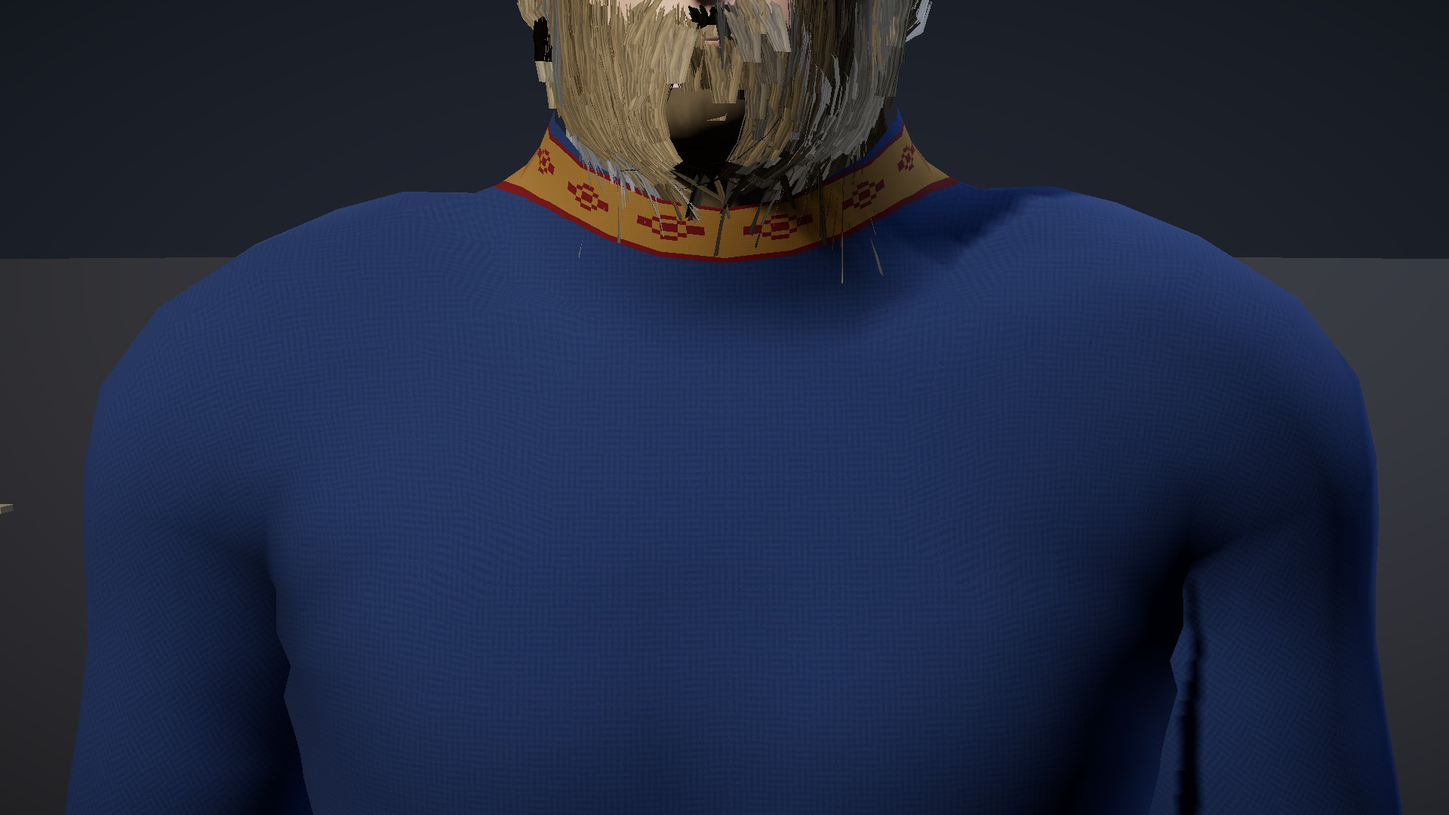
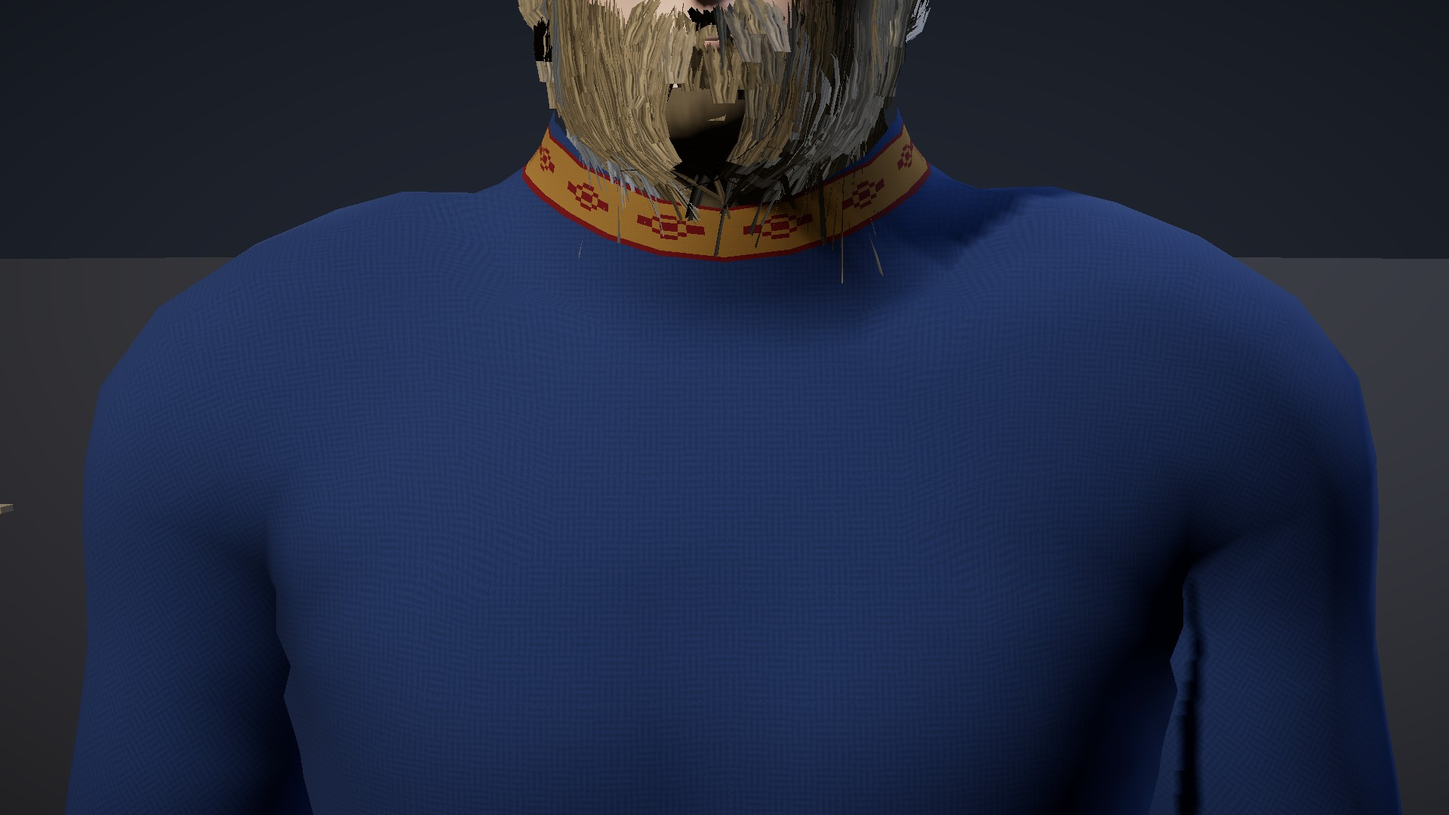
Bodies: Session 1230 — the neck's border stops at the neck's base
A band round the neck (the Aurennais gown's border, the Mark's woven band) reads its foot off a table of
48 heights measured down the tunic's own rest surface, so its lower cord no longer runs into the crease where
the collar meets the shoulder. builder.check 554/554.

Claude-Session: https://claude.ai/code/session_011QPd5jMNqV7usgMmVpkfan

diff --git a/docs/prototypes/levelup/people.js b/docs/prototypes/levelup/people.js
@@ -115,7 +115,7 @@ const LOZ_AT = o => o.at.map(a => `{ float t = ${a.t}, s = ${a.s}; if (${a.on ||
 // the three places on the rest body: the neck from rest .58 to .606, round the neck's axis (x 0, z .025, 5.5 cm out); the cuff across
 // its width (rest |x| .371 to .411, as the woven cuff band), round the wrist's middle where that slab cuts it (y .285, z .116); the hem 4 cm up from the skirt's cut (a short skirt's at -.2, a long
 // one's own edge, -.687 at the sides to -.728 at the front, below), round the body's axis
-const LOZ_NECK = { t: '(vB.y - .58) / .026', s: 'atan(vB.x, vB.z - .025) * .055 / .028', on: 'abs(vB.x) < .1' };
+const LOZ_NECK = { t: '(vB.y - neckY(vB)) / (.606 - neckY(vB))', neck: .026, s: 'atan(vB.x, vB.z - .025) * .055 / .028', on: 'abs(vB.x) < .1' };
 const LOZ_CUFF = { t: `(${SLV_T} - .371) / .04`, s: `${SLV_S} * .045 / .04` };
 // a long gown's cut is the skirt helper's own edge, not a line: 2.8 cm higher at the sides than at the front (Session 1163). Its band
 // is laid up from that edge, read off a table of 48 heights round the body's axis, filled from the edge's points on the rest body
@@ -135,6 +135,33 @@ function lozHemTable() {
 }
 // the same reading in JS, for the checks
 export function lozHemY(x, z) { const T = lozHemTable(), u = (Math.atan2(x, z - .02) / (Math.PI * 2) + .5) * 48, i = Math.floor(u) % 48; return T[i] + (T[(i + 1) % 48] - T[i]) * (u - Math.floor(u)); }
+// a band round the neck (Session 1230; S1220's note: the gown's lower cord ran down into the crease where the collar meets the shoulder,
+// and over the back of the shoulders it lay out on their slope, the rings drawn out wide). Its top stays at rest .606; its foot is read off
+// a table of 48 heights round the neck's axis (x 0, z .025), each where the band's own depth is measured down the tunic's rest surface
+// from the top, not down y: over the front, where the neck stands straight, that is where it was (.578), and where the neck flares into
+// the shoulders the band stops short of the flare, as a collar's border does
+const NECK_BAND = `uniform float neckT[48]; float neckY(vec3 p){ float u = (atan(p.x, p.z - .025) / 6.28319 + .5) * 48.; int i = int(floor(u)) % 48; return mix(neckT[i], neckT[(i + 1) % 48], fract(u)); }`;
+// the table, for a band of the given depth: at each angle a ray out from the neck's axis every millimetre down from .606 meets the
+// tunic's rest triangles, the furthest hit being the surface (none, at the cut's own edge: the next one down); the depth is walked down that profile, and the heights smoothed round
+function neckBandTable(depth) {
+  const k = 'neckT' + depth; if (PACK[k]) return PACK[k]; const ix = PACK.R.tunic, R0 = PACK.rest, tri = [];
+  for (let t = 0; t < ix.length; t += 3) { const ys = [0, 1, 2].map(j => R0[ix[t + j] * 3 + 1]); if (Math.max(...ys) > .53 && Math.min(...ys) < .615) tri.push(t); }
+  const hit = (y, a) => { const dx = Math.sin(a), dz = Math.cos(a); let best = 0;
+    for (const t of tri) { const A = ix[t] * 3, B = ix[t + 1] * 3, C = ix[t + 2] * 3; if (Math.max(R0[A + 1], R0[B + 1], R0[C + 1]) < y || Math.min(R0[A + 1], R0[B + 1], R0[C + 1]) > y) continue;
+      const e1x = R0[B] - R0[A], e1y = R0[B + 1] - R0[A + 1], e1z = R0[B + 2] - R0[A + 2], e2x = R0[C] - R0[A], e2y = R0[C + 1] - R0[A + 1], e2z = R0[C + 2] - R0[A + 2];
+      const px = -dz * e2y, py = dz * e2x - dx * e2z, pz = dx * e2y, det = e1x * px + e1y * py + e1z * pz; if (Math.abs(det) < 1e-12) continue;
+      const sx = -R0[A], sy = y - R0[A + 1], sz = .025 - R0[A + 2], u = (sx * px + sy * py + sz * pz) / det; if (u < 0 || u > 1) continue;
+      const qx = sy * e1z - sz * e1y, qy = sz * e1x - sx * e1z, qz = sx * e1y - sy * e1x, w = (dx * qx + dz * qz) / det; if (w < 0 || u + w > 1) continue;
+      const d = (e2x * qx + e2y * qy + e2z * qz) / det; if (d > 0 && d < .3) best = Math.max(best, d); } return best; };
+  const raw = new Float32Array(48);
+  for (let i = 0; i < 48; i++) { const a = (i / 48 - .5) * Math.PI * 2; let y = .606, r = hit(y, a), run = 0;
+    while (y > .54) { const y2 = y - .001, r2 = hit(y2, a) || r, l = Math.hypot(.001, r ? r2 - r : 0); if (run + l >= depth) { y -= .001 * (depth - run) / l; break; } run += l; y = y2; r = r2; }
+    raw[i] = y; }
+  const T = new Float32Array(48); for (let i = 0; i < 48; i++) T[i] = Math.max(raw[i], (raw[(i + 47) % 48] + 2 * raw[i] + raw[(i + 1) % 48]) / 4);
+  return PACK[k] = T;
+}
+// the same reading in JS, for the checks
+export function neckBandY(x, z, depth = .028) { const T = neckBandTable(depth), u = (Math.atan2(x, z - .025) / (Math.PI * 2) + .5) * 48, i = Math.floor(u) % 48; return T[i] + (T[(i + 1) % 48] - T[i]) * (u - Math.floor(u)); }
 // the Aurennais gown's gold embroidery (Session 1220, L1; OG-110's woman "in red and gold", OG-109's "embroidered formal dress in
 // saffron, red and teal"): worked on the gown's own cloth, not woven into a band of its own. Across the border (t, 0 to 1) a couched cord
 // along each edge; between them a running vine, one wave every two border widths along it (s), with a ring and its knot in the bay under
@@ -157,7 +184,7 @@ const EMB_AT = o => 'float embK = 0.; ' + o.at.map(a => `{ float t = ${a.t}, s =
 // the neck from rest .578, 2.8 cm deep, round the neck's axis (six waves, all the way round); the sleeve's end, 3.6 cm from rest |x| .356, 4 mm short of its cut, round
 // the wrist (six waves: the sleeve hangs open, wider than the wrist); the hem 2 cm up from the cut, 5.5 cm deep (a long gown's off the edge's table, thirteen waves round; a
 // knee-length one's or a short one's over its line, eleven and ten)
-const EMB_NECK = { t: '(vB.y - .578) / .028', s: 'atan(vB.x, vB.z - .025) * 1.90986' };
+const EMB_NECK = { t: '(vB.y - neckY(vB)) / (.606 - neckY(vB))', s: 'atan(vB.x, vB.z - .025) * 1.90986', neck: .028 };
 const EMB_SLEEVE = { t: `(${SLV_T} - .356) / .036`, s: `${SLV_S} * 1.90986` };
 const embHem = sk => sk === 'long' ? { t: '(vB.y - lozHemY(vB) - .02) / .055', s: 'atan(vB.x, vB.z - .02) * 4.13803', lut: true } : sk === 'knee' ? { t: '(vB.y + .325) / .045', s: 'atan(vB.x, vB.z - .02) * 3.50141' } : { t: '(vB.y + .18) / .04', s: 'atan(vB.x, vB.z - .02) * 3.18310' };
 // folds round a wound band (Session 1010, the sash belt): soft ridges and sharp creases running round the body, n of them across
@@ -229,6 +256,8 @@ function clothMat(color, kind = 'wool', o = {}) {
       s.fragmentShader = `const bool strArm = ${!!t.arm};\n` + 'uniform vec3 strK; uniform vec3 strL; uniform vec2 strO; uniform vec3 strS; uniform vec3 strE; uniform vec3 strW;\n' + STRIPES + '\n' + s.fragmentShader; }
     if (o.band) s.fragmentShader = 'uniform vec3 bandC;\n' + s.fragmentShader;
     // the Mark's woven bands (Session 1156), laid after everything else on the cloth
+    // a band round the neck (Session 1230) reads its foot off the table for its depth; a material carries one (the woven bands or the gown's)
+    { const nk = [...(o.loz?.at || []), ...(o.emb?.at || [])].find(a => a.neck); if (nk) { s.uniforms.neckT = { value: Array.from(neckBandTable(nk.neck)) }; s.fragmentShader = NECK_BAND + '\n' + s.fragmentShader; } }
     if (o.loz) { const lut = o.loz.at.some(a => a.lut); if (lut) s.uniforms.lozHemT = { value: Array.from(lozHemTable()) };
       s.uniforms.lozG = { value: o.loz.g }; s.uniforms.lozM = { value: o.loz.m }; s.fragmentShader = 'uniform vec3 lozG; uniform vec3 lozM;\n' + (lut ? LOZ_HEM + '\n' : '') + LOZ + '\n' + s.fragmentShader.replace('#include <color_fragment>', '#include <color_fragment>\n ' + LOZ_AT(o.loz)); }
     // the Aurennais gown's gold embroidery (Session 1220), laid after the woven bands, its threads lit as metal

diff --git a/docs/backlog.md b/docs/backlog.md
@@ -469,7 +469,7 @@ Michael marked all 96 images of the intake on the review page: 63 KEEP and 33 NO
 - **Proportions for people** (look builder, `32-people.js`; OG-012, OG-095; Michael's 1 B): the heroic hybrid, about 1.80 m, slightly longer legs and broader shoulders than naturalistic, so a figure reads at a distance and in a fight. Leave room for the short Old Blood and the tall Markmen on either side.
 - **The creator, with the four peoples** (interface; OG-050): a list of choices on the left, the portrait on the right, six builds (default, stout, lean, tall, young, mature), five silhouettes, a hair-and-beard strip. Its races become the four peoples, Old Blood included (§2.2).
 - **Children, the old and the hurt in towns** (look builder and systems; OG-081, OG-001, OG-065): child-scale people (the towns have only Finn), the elderly, scars and eyepatches, a veteran in a wheeled chair (Garrick), large and small builds. ~~**Scars and eyepatches**~~ — done, Session 1079 (bodies builder; `people.js` `scarSkin`, `G.scar`, `buildEyepatch`, `D.eyepatch`, `builder-hurt-*.jpg`: an old cut from over the brow across the eye to the cheek drawn in the skin's shader, paler, raised and stitched, a gap in the brow; a leather patch 5 by 3.8 cm spanning the socket 1.3 mm off the face on a cord looped over the far temple and the near ear, nothing through either; 1 man in 14 and 1 woman in 40 scarred, a quarter of them patched); ~~**Children**~~ — done, Session 1081 (bodies builder; MakeHuman's child targets in the pack, the age slider from 11, `rollGenome(seed, { people, child: true })`, `builder-children*.jpg`: 11 to 15 years old, 79 to 93 per cent of their people's stature, dressed as their people, nothing a grown body carries, cloaks cut to them; every hair style clear on a child of 11); ~~**The old**~~ — done, Session 1082 (bodies builder; `rollGenome(seed, { people, old: true })`, `pose.stoop`, `builder-old-*.jpg`: 64 to 90, the hair to white or iron grey, a stoop in the upper back on six in ten with the arms still plumb); ~~**The old's walking staff**~~ — done, Session 1085 (bodies builder; `people.js` `buildStaff`, `STAFFS`, `D.staff`, `D.staffMake`, `builder-staff-*.jpg`: in the right fist on the spear's grip, its foot on the ground, bent about a centimetre and true through the fist; a hazel staff with its root knob for the Gatelands, ash shod in iron for the Mark, olive with a bronze knob for Aurenne, and OG-042's and OG-065's tall staff carved in knotwork for the Old Blood; on 25 to 39 of sixty old, none of the grown or the children); ~~a grip that leans on the staff~~ — done, Session 1094 (`STAFF_ARM`: the forearm dropped 38° forward and down, the fist at the belt, 57 to 59 per cent up the body, the staff's foot 8 to 16 cm ahead of the toes; `builder-staff-*.jpg`); ~~the wheeled chair~~ — done, Session 1106 (bodies builder; `people.js` `buildChair`, `SEAT`, `D.chair`, `builder-chair-*.jpg`: Garrick seated, the thighs level and the shins sloped to a footboard, the forearms laid on the chair's arms with the palms turned down over their ends; an oak armchair built to the seated body, 7,700 tris, on two iron-tyred cart wheels 62 cm across and two small ones under the front legs, push handles behind; nothing that hangs to the ground is worn in it, and it is never rolled); ~~his black wolfhound~~ — done, Session 1107 (`creatures.js` `wolfhound`, `HOUNDS`, `creatures-hounds.jpg`: the kit's first dog, a rough-coated sighthound on the wolf's parts, 81 cm at the top of the legs against the grey wolf's 74, deep in the chest and tucked up in the loin, a long narrow head with its ears folded back, 33 bones, 40,164 tris); ~~the crossbow across his knees~~ — done, Session 1116 (`people.js` `buildLapCrossbow`, `builder-chair-crossbow*.jpg`: OG-065's long gun as the crossbow the catalogue asks for, laid level across the thighs over the knees, the bolt's face up, the butt to his right and the prod out past the left wheel, let down to 2 mm off the thighs and moved forward until nothing of it is in the chair or a hand; a crossbow asked with the chair now lies there instead of being dropped); ~~the hound sitting by the chair~~ — done, Session 1114 (`creatures.js` `GAITS.sit`, `sitBody`, `sitLeg`, `creatures-wolfhound-sit*.jpg`: a sit for any four-legged plan, the body pitched up about the shoulders until the haunch and shins are 5 mm off the ground, 52° on the hound, the forefeet where it stands, the hind legs folded with the hocks back and the toes 21 cm ahead of the hips, the tail laid back along the ground and curled round; on the wolfhound, and since Session 1115 on every plan built on the Ironwolf's, the red fox's or the Hollowcat's parts, eleven in all, each tail lifted only as far as its flesh needs); ~~the hound lying down~~ — done, Session 1117 (`GAITS.lie`, `lieLeg`, `creatures-wolfhound-lie*.jpg`: a sphinx's lie, lowered level until the belly and haunch are 5 mm off the ground, the withers from 81 to 24 cm, the forelegs laid forward from the elbow 12 cm ahead of where it stands, the hind legs folded as they sit, the head up); ~~the lie on the other sitters~~ — done, Session 1122 (all eleven plans lie, `creatures-lying.jpg`: the forearm left out of the drop's search and raised by its own, `C.sitF`, so the foxes' and cats' bodies come down to 5 mm and their forearms clear the ground); ~~the hound beside Garrick's chair in one picture~~ — done, Session 1123 (the builder's `with=PLAN` stage, `builder-chair-hound*.jpg`: the wolfhound lying 8 cm off his right wheel, its nose level with the footboard, or sitting 35 cm back, turning with him); ~~the lying head held up~~ — done, Session 1124 (`SIT.lieNeck`: the neck raised 0.3 rad along its bones and the head turned back level, 1 to 5 cm higher on all eleven); ~~the cats sit with their forefeet together~~ — done, Session 1126 (`sitTuck`, `creatures-cats-sit.jpg`, `creatures-hollowcat-sit-front.jpg`: the Hollowcat and both lynxes keep 30% of their forefeet's standing width, 1.5 cm off the middle against 5.0); ~~the cats' tail wrapped round~~ — done, Session 1130; owed: children under 11 (MakeHuman's baby targets), a walk that leans on the staff, the chair pushed (B4), and the game (after F4).
-- **The wardrobe matrix** (look builder, the builder's B2, `docs/design/character-builder.md`; OG-109, OG-110, OG-111): for each island, men's and women's workwear, everyday, formal, travel and winter dress, by class (commoner, merchant, noble, warrior, clergy, scholar), and children's clothes as small copies of their parents'. The Gatelands in wool, linen and leather, earth greens and muted blue, laced bodices, hooded cloaks, tartans a new note; the Mark in heavy wool with fur trims and woven bands; Aurenne in linen, cotton and silk, sashes, turbans and head scarves in saffron, red and teal. OG-110's half-length pairs and its swatches (weave, fur, leather, ironwork clasps) are the close-up reference for the cloth. The canon wins where the sheets drift: the Mark's soldiers in black and iron, and its “runic tattoos” are the gates' marks under the skin (§3.1), not ink. **The Gatelanders' waistcoat, Session 1143** (bodies builder; `people.js` `D.waistcoat`, `waistcoatLeather`, `buildButtons`, `builder-waistcoat-*.jpg`): OG-109's "tunics, waistcoats", a man's sleeveless piece over the tunic in earth green, brown, muted blue or a dark drab, or brown leather on three in ten, a V at the neck and six buttons down the closed front, ending under the belt; on 35% of Gatelander men from a stream of its own; the lapped front's edge drawn as its shadow, Session 1144 (`WAISTCOAT_EDGE`, `clothMat`'s `shade`); owed: the game (after F4), and the rest of the matrix (formal, travel and winter dress by class). **The Gatelanders' tartan, Session 1146** (bodies builder; `people.js` `TARTAN`, `D.tartan`, `D.tartanLine`, `builder-tartan-*.jpg`): OG-111's "tartans", a symmetric sett 16.8 cm across (the cloak's colour as the ground, two dark bands side by side, a fine overcheck) woven in a 2/2 twill on 1.5 mm threads in the shader. It is laid round the wearer from the back's middle, on the cloak, the cape and the hood up or down. Rolled on no one until Michael answers where it goes (DECISION #445); owed: that answer, the roll, and the game (after F4). **The Gatelanders' winter coat, Session 1147** (bodies builder; `people.js` `D.coat`, `D.coatFur`, `coatLen`, `coatOn`, `coatStats`, `builder-coat-*.jpg`): OG-109's winter column, "fur-lined winter coats": a wool coat over the tunic, sleeves to the wrist, a skirt flaring to mid-calf (`coatLen` .75; 0 a jacket, 1 the ankle), the right front lapped over the left and belted over; a fur trim at the collar, down the lapping edge, round the cuffs and the hem, seven shells cut from the regions they cover. It takes the place of the cloak, mantle, apron, sash, shoulder wrap, waistcoat and bodice, and gives way to a robe, mail, a tabard or the chair. Rolled on no one: who wears it, and when, is the season's (the game's) to say; owed: the Mark's fur-lined hooded coat, and the game (after F4). **The Gatelanders' tartan, Sessions 1146 and 1151** (bodies builder; `people.js` `TARTAN`, `D.tartan`, `tartanLine`, `PEOPLES.gatelander.setts`, `builder-tartan-*.jpg`): a sett woven into the cloak, the cape and the hood; Michael's A on #445, a note on cloaks: one Gatelander cloak or cape in five, in one of three setts, nobody else. Owed: the game after F4. **The Mark's fur-lined hooded coat, Session 1152** (bodies builder; `people.js` `D.coatHood`, `hoodUpOn`, `buildHoodUp`'s `clr` and `fur`, `builder-coathood-*.jpg`): OG-109's Mark column, the winter coat's hood up in its wool with a fur ruff round the face (seven shells, 11.8 to 13.1k triangles; ~~its cost~~ — Session 1165: 4.9 to 5.5k, the triangles its shader discards whole left out). The hood down, Session 1153 (`buildCoatHoodDown`, `rollAt`, `builder-coathood-down-*.jpg`): a roll of the coat's wool across the upper back, 768 triangles, the hair set out over it. Owed: the game after F4. **The Mark's formal dress, its woven bands, Session 1156** (bodies builder; `people.js` `D.bands`, `D.bandsMotif`, `LOZ`, `builder-bands-*.jpg`): OG-109's Mark formal column, "blue and red, with woven bands": a tablet-woven band in the shader at the tunic's neck, round both cuffs (built in the tunic's colour where there were none) and 4 cm up the skirt's hem, short or long; a ground with a thread of the motif at each edge and a row of lozenges, stepped to the threads. None under a coat or a robe. Rolled on no one: who dresses formally, and when, is the game's (rank, a feast) to say. ~~A long gown's band fitted to its own ragged cut~~ — done, Session 1163 (`lozHemY`, a table of 48 heights round the body; `builder-bands-hem*.jpg`). ~~The formal tunic worn longer~~ — done, Session 1164 (`skirt: 'knee'`, the long skirt's shell cut at rest -.345, at the kneecap, the band on its hem; `builder-knee-*.jpg`). ~~The women's mantle over the gown~~ — done, Session 1203 (OG-110's Mark woman in white fur over blue: two in five of the Mark women's fur mantles in white fox, cream ermine or snow hare, `PALE_FUR`, from a stream of their own; and every mantle's hem, neckline and arm edges cut in the shader, `MANTLE_CUT`, the outer shells thinning to the edge and the collar folding in on the throat; `builder-mantle-*.jpg`). Owed: the game after F4. **The Aurennais men's striped robe, Session 1205** (bodies builder; `people.js` `STRIPES`, `stripeOf`, `D.robeStripe`, `D.robeStripeLine`, `PEOPLES.aurennais.robes`, `builder-striped-*.jpg`): OG-110's Aurenne man "in a striped robe" and OG-109's flowing robes: the robe woven with warp stripes in the shader, 5.6 cm a repeat (the ground, a 1.6 cm stripe, a 0.4 cm fine line), laid round the torso's axis down the body and the skirt (17 repeats round, no seam) and round each arm's own axis down the sleeve (shoulder to elbow, elbow to wrist); one Aurennais man in five wears a robe in place of the tunic and trousers, three in four of them striped, in five Aurenne colourways, from a stream of its own. Owed: the game after F4. **The Aurennais women's circlet, Session 1206** (bodies builder; `people.js` `buildCirclet`, `CIRCLET`, `circletOn`, `D.circlet`, `D.circletStone`, `builder-circlet-*.jpg`): OG-110's Aurenne woman "in red and gold with a circlet": a band 7 mm high of gold or bronze round the head over the hair, 2.6 cm over the brows at the front, 2.2 cm lower at the back, 8 mm over the ears, fitted in 96 directions to the furthest point of the head or hair at its height, with a garnet or teal stone in an oval setting at the brow; 1,536 triangles in 3 draws, on the head bone; on 15% of the bare-headed Aurennais women, from a stream of its own. ~~OG-110's red and gold gown~~ — done, Session 1220. Owed: the game after F4. **The Aurennais women's embroidered gown, Session 1220** (bodies builder; `people.js` `EMB`, `embOf`, `embHem`, `D.gownBorder`, `PEOPLES.aurennais.gown`, `builder-gown-*.jpg`): OG-110's Aurenne woman "in red and gold" and OG-109's "embroidered formal dress in saffron, red and teal": a border embroidered in the shader on the gown's own cloth at the neck (2.8 cm, six waves round), the sleeves' ends (3.6 cm, six waves) and 2 cm up the hem (5.5 cm, thirteen waves round a long gown, off the cut's own table): a couched cord at each edge, a running vine with a ring and knot in each bay and a leaf at each crossing, satin-stitched, a little proud, lit as metal; one Aurennais woman in five in a long skirt and no apron, bodice and skirt in one cloth (madder on half, saffron or teal), gold thread (madder on two in five saffron gowns), from a stream of its own; 0 triangles added. Owed: the game after F4; ~~the sleeve's end ragged close in (S1220's note)~~ — done, Session 1228 (every sleeve number read on the forearm's own axis, `slvX`/`SLV_T`, so the cut, the cuffs, the bands and the border run square round the wrist, and the skin under the end is whole; `builder-sleeve-*.jpg`); the neck border's lower cord clipped at the shoulder is still open.
+- **The wardrobe matrix** (look builder, the builder's B2, `docs/design/character-builder.md`; OG-109, OG-110, OG-111): for each island, men's and women's workwear, everyday, formal, travel and winter dress, by class (commoner, merchant, noble, warrior, clergy, scholar), and children's clothes as small copies of their parents'. The Gatelands in wool, linen and leather, earth greens and muted blue, laced bodices, hooded cloaks, tartans a new note; the Mark in heavy wool with fur trims and woven bands; Aurenne in linen, cotton and silk, sashes, turbans and head scarves in saffron, red and teal. OG-110's half-length pairs and its swatches (weave, fur, leather, ironwork clasps) are the close-up reference for the cloth. The canon wins where the sheets drift: the Mark's soldiers in black and iron, and its “runic tattoos” are the gates' marks under the skin (§3.1), not ink. **The Gatelanders' waistcoat, Session 1143** (bodies builder; `people.js` `D.waistcoat`, `waistcoatLeather`, `buildButtons`, `builder-waistcoat-*.jpg`): OG-109's "tunics, waistcoats", a man's sleeveless piece over the tunic in earth green, brown, muted blue or a dark drab, or brown leather on three in ten, a V at the neck and six buttons down the closed front, ending under the belt; on 35% of Gatelander men from a stream of its own; the lapped front's edge drawn as its shadow, Session 1144 (`WAISTCOAT_EDGE`, `clothMat`'s `shade`); owed: the game (after F4), and the rest of the matrix (formal, travel and winter dress by class). **The Gatelanders' tartan, Session 1146** (bodies builder; `people.js` `TARTAN`, `D.tartan`, `D.tartanLine`, `builder-tartan-*.jpg`): OG-111's "tartans", a symmetric sett 16.8 cm across (the cloak's colour as the ground, two dark bands side by side, a fine overcheck) woven in a 2/2 twill on 1.5 mm threads in the shader. It is laid round the wearer from the back's middle, on the cloak, the cape and the hood up or down. Rolled on no one until Michael answers where it goes (DECISION #445); owed: that answer, the roll, and the game (after F4). **The Gatelanders' winter coat, Session 1147** (bodies builder; `people.js` `D.coat`, `D.coatFur`, `coatLen`, `coatOn`, `coatStats`, `builder-coat-*.jpg`): OG-109's winter column, "fur-lined winter coats": a wool coat over the tunic, sleeves to the wrist, a skirt flaring to mid-calf (`coatLen` .75; 0 a jacket, 1 the ankle), the right front lapped over the left and belted over; a fur trim at the collar, down the lapping edge, round the cuffs and the hem, seven shells cut from the regions they cover. It takes the place of the cloak, mantle, apron, sash, shoulder wrap, waistcoat and bodice, and gives way to a robe, mail, a tabard or the chair. Rolled on no one: who wears it, and when, is the season's (the game's) to say; owed: the Mark's fur-lined hooded coat, and the game (after F4). **The Gatelanders' tartan, Sessions 1146 and 1151** (bodies builder; `people.js` `TARTAN`, `D.tartan`, `tartanLine`, `PEOPLES.gatelander.setts`, `builder-tartan-*.jpg`): a sett woven into the cloak, the cape and the hood; Michael's A on #445, a note on cloaks: one Gatelander cloak or cape in five, in one of three setts, nobody else. Owed: the game after F4. **The Mark's fur-lined hooded coat, Session 1152** (bodies builder; `people.js` `D.coatHood`, `hoodUpOn`, `buildHoodUp`'s `clr` and `fur`, `builder-coathood-*.jpg`): OG-109's Mark column, the winter coat's hood up in its wool with a fur ruff round the face (seven shells, 11.8 to 13.1k triangles; ~~its cost~~ — Session 1165: 4.9 to 5.5k, the triangles its shader discards whole left out). The hood down, Session 1153 (`buildCoatHoodDown`, `rollAt`, `builder-coathood-down-*.jpg`): a roll of the coat's wool across the upper back, 768 triangles, the hair set out over it. Owed: the game after F4. **The Mark's formal dress, its woven bands, Session 1156** (bodies builder; `people.js` `D.bands`, `D.bandsMotif`, `LOZ`, `builder-bands-*.jpg`): OG-109's Mark formal column, "blue and red, with woven bands": a tablet-woven band in the shader at the tunic's neck, round both cuffs (built in the tunic's colour where there were none) and 4 cm up the skirt's hem, short or long; a ground with a thread of the motif at each edge and a row of lozenges, stepped to the threads. None under a coat or a robe. Rolled on no one: who dresses formally, and when, is the game's (rank, a feast) to say. ~~A long gown's band fitted to its own ragged cut~~ — done, Session 1163 (`lozHemY`, a table of 48 heights round the body; `builder-bands-hem*.jpg`). ~~The formal tunic worn longer~~ — done, Session 1164 (`skirt: 'knee'`, the long skirt's shell cut at rest -.345, at the kneecap, the band on its hem; `builder-knee-*.jpg`). ~~The women's mantle over the gown~~ — done, Session 1203 (OG-110's Mark woman in white fur over blue: two in five of the Mark women's fur mantles in white fox, cream ermine or snow hare, `PALE_FUR`, from a stream of their own; and every mantle's hem, neckline and arm edges cut in the shader, `MANTLE_CUT`, the outer shells thinning to the edge and the collar folding in on the throat; `builder-mantle-*.jpg`). Owed: the game after F4. **The Aurennais men's striped robe, Session 1205** (bodies builder; `people.js` `STRIPES`, `stripeOf`, `D.robeStripe`, `D.robeStripeLine`, `PEOPLES.aurennais.robes`, `builder-striped-*.jpg`): OG-110's Aurenne man "in a striped robe" and OG-109's flowing robes: the robe woven with warp stripes in the shader, 5.6 cm a repeat (the ground, a 1.6 cm stripe, a 0.4 cm fine line), laid round the torso's axis down the body and the skirt (17 repeats round, no seam) and round each arm's own axis down the sleeve (shoulder to elbow, elbow to wrist); one Aurennais man in five wears a robe in place of the tunic and trousers, three in four of them striped, in five Aurenne colourways, from a stream of its own. Owed: the game after F4. **The Aurennais women's circlet, Session 1206** (bodies builder; `people.js` `buildCirclet`, `CIRCLET`, `circletOn`, `D.circlet`, `D.circletStone`, `builder-circlet-*.jpg`): OG-110's Aurenne woman "in red and gold with a circlet": a band 7 mm high of gold or bronze round the head over the hair, 2.6 cm over the brows at the front, 2.2 cm lower at the back, 8 mm over the ears, fitted in 96 directions to the furthest point of the head or hair at its height, with a garnet or teal stone in an oval setting at the brow; 1,536 triangles in 3 draws, on the head bone; on 15% of the bare-headed Aurennais women, from a stream of its own. ~~OG-110's red and gold gown~~ — done, Session 1220. Owed: the game after F4. **The Aurennais women's embroidered gown, Session 1220** (bodies builder; `people.js` `EMB`, `embOf`, `embHem`, `D.gownBorder`, `PEOPLES.aurennais.gown`, `builder-gown-*.jpg`): OG-110's Aurenne woman "in red and gold" and OG-109's "embroidered formal dress in saffron, red and teal": a border embroidered in the shader on the gown's own cloth at the neck (2.8 cm, six waves round), the sleeves' ends (3.6 cm, six waves) and 2 cm up the hem (5.5 cm, thirteen waves round a long gown, off the cut's own table): a couched cord at each edge, a running vine with a ring and knot in each bay and a leaf at each crossing, satin-stitched, a little proud, lit as metal; one Aurennais woman in five in a long skirt and no apron, bodice and skirt in one cloth (madder on half, saffron or teal), gold thread (madder on two in five saffron gowns), from a stream of its own; 0 triangles added. Owed: the game after F4; ~~the sleeve's end ragged close in (S1220's note)~~ — done, Session 1228 (every sleeve number read on the forearm's own axis, `slvX`/`SLV_T`, so the cut, the cuffs, the bands and the border run square round the wrist, and the skin under the end is whole; `builder-sleeve-*.jpg`); ~~the neck border's lower cord clipped at the shoulder~~ — done, Session 1230 (the foot of a band round the neck, the gown's and the Mark's woven bands', is read off a table of 48 heights measured down the tunic's own surface, so it stops at the neck's base; `neckBandY`, `builder-neck-*.jpg`).
 
 ### L2. Named people (quest writer for the words, look builder for the faces)
 - **Act I's faces** (OG-069 for the turnarounds, OG-057 for the props and secrets, OG-001 for the gallery): Bram grey at the forge (canon's thirty years), Edna, Corwin, Niamh and Áine as Gatelanders. Corwin's people is never said (Michael's 11 C).

diff --git a/docs/devlog/1230.md b/docs/devlog/1230.md
@@ -1,0 +1,44 @@
+## v80 — Session 1230 — The neck's border stops at the neck's base (bodies builder; prototype only)
+Session 1220 left a second note under *Needs eyes*, carried by Session 1228: the Aurennais gown's embroidered border at the neck had its
+lower cord running down into the crease where the collar meets the shoulder, so from the side the cord was cut off by the shoulder's line.
+This session fixes it in the kit. It is a fix to today's bodies, so it can be done under FREEZE #528 (all of `js/`, `index.html`, `tests/`
+and `.github/`, while the new look lands). Nothing outside `docs/prototypes/levelup/` and the docs changed.
+
+**The cause.** The border was laid on a plain band of rest height, .578 to .606, round the neck's axis (x 0, z .025). Over the front the
+neck stands straight there, about 5 cm out all the way up, and the band lies on it. At the sides it does not: casting rays out from the
+neck's axis onto the tunic's rest triangles, the surface at 90° is 5.3 cm out at .596 but 16 cm out at .576, the top of the shoulder, so
+the band's foot (and the lower cord 2 mm over it) sat on the crease itself. Behind the shoulders the neck flares gradually into the
+trapezius: at 110° the surface goes from 5.6 cm out at .604 to 9.1 cm at .580, so the band's lower half lay out on that slope and the
+rings and the vine were drawn out wide (`builder-neck-back-before.jpg`). Measured the same way (the check below), the surface under the
+old band stands out up to 4.05 cm past its top, at 112° behind the shoulder, and 3.7 mm for each millimetre down at its steepest.
+
+**The fix.** A band round the neck now reads its foot off a table of 48 heights round the neck's axis (`neckBandTable`, `NECK_BAND`'s
+`neckY` in GLSL, `neckBandY` in JS for the checks), as a long gown's hem reads its cut off `lozHemTable` (S1163). Each height is found by
+walking the band's depth (2.8 cm for the gown's border) down the tunic's own rest surface from the top at .606, a millimetre at a time,
+along the profile the rays find, instead of down y; the heights are smoothed round, never lower than the walk's own. Over the front,
+where the neck is straight, the walk ends where the band always ended: .5784 at 0°, within half a millimetre of .578 out to 45°. At the
+sides it ends at .5812, on the neck short of the crease; behind the shoulders at .5874, before the slope. The band's top stays at .606,
+and `t` runs from the foot to the top, so the cords, the vine and the rings keep their places across it and the border is the same depth
+down the cloth all the way round. The Mark's woven band at the neck (S1156, 2.6 cm, `LOZ_NECK`) had the same plain foot (.58) and takes
+the same table for its own depth; it is drawn only within 10 cm of the middle at the front and back, so it moves only behind the
+shoulders. The table is computed once per depth from the pack and passed as a uniform; one band round the neck per material (a gown's
+border and the woven bands never meet on one tunic). 0 triangles and 0 draws added.
+
+### Verified (headless Chromium)
+`builder.check.mjs` 554/554, all passed; three checks new (two, and one for page errors):
+- at each of 48 angles round the neck, a ray every millimetre from the band's top down to its foot: the surface stands out at most
+  1.95 cm past where it is at the top (the woven bands' 1.81), and at most 1.7 mm for a millimetre down (1.6), against 4.05 cm and
+  3.7 mm with the old foot at .578;
+- the foot is where it was over the front (within 0.51 mm of .578 within 45° of the middle) and rises at most 9.4 mm behind the
+  shoulders; the band's depth measured down the cloth is 2.60–2.79 cm for the gown's 2.8 and 2.43–2.60 for the woven bands' 2.6 (the
+  smoothing round only ever lifts a foot, so a band is up to 2 mm shallower where the neck turns fastest).
+Pictures: `builder-neck-side.jpg` against `builder-neck-side-before.jpg` (the cord whole round the neck's base, not dipping into the
+shoulder), `builder-neck-back.jpg` against `builder-neck-back-before.jpg` (the rings round, not drawn out over the shoulders);
+`builder-gown-neck.jpg` and `builder-bands-neck.jpg` retaken.
+
+### Needs eyes
+- **Behind the shoulders the border sits up to 9 mm higher than at the front.** It follows where the neck meets the shoulders, as a
+  sewn collar's border does; if it reads as tilted from behind, the walk's depth can be eased there.
+- **Owed:** the game, after F4. `vendor/people.builder.js` was already stale against `people.js` on main before this session
+  (`people_bundle.py --check`); it is game-visible on the new look, so under #528 it is left for F4's rebuild, which carries this too. Next in the matrix:
+  OG-109's Aurenne travel and winter dress.
